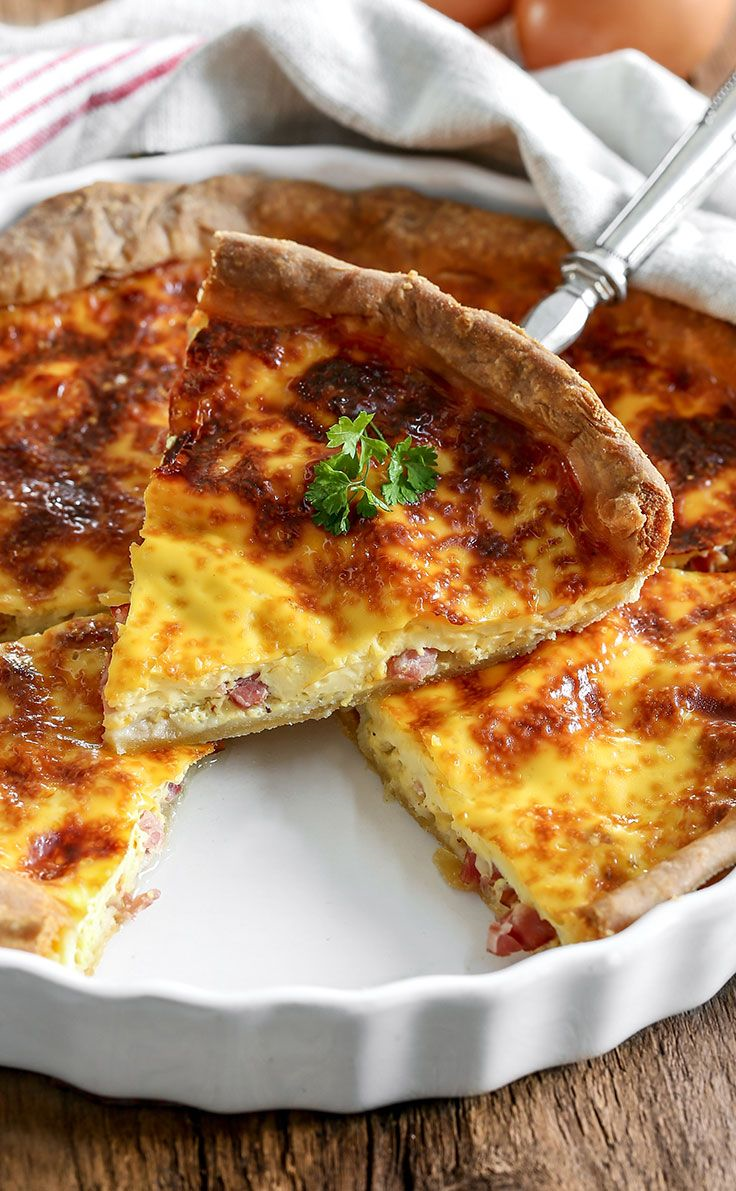
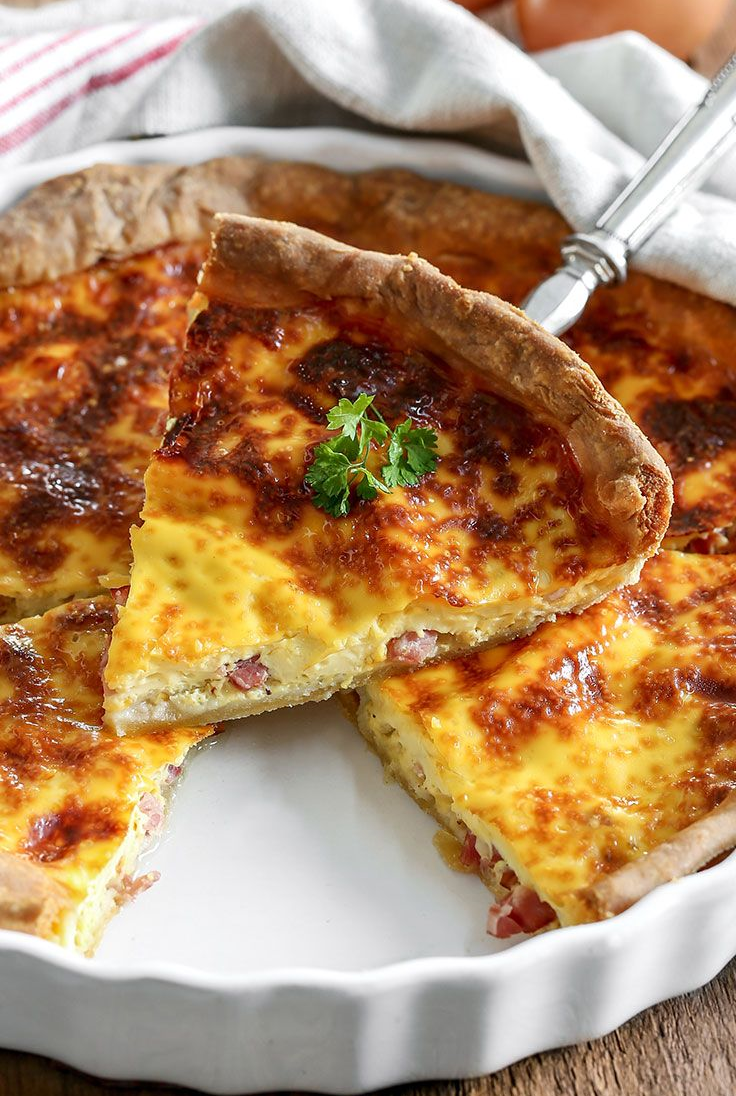
all pictures

diff --git a/src/app/components/recette/recette.component.scss b/src/app/components/recette/recette.component.scss
@@ -94,8 +94,6 @@ button:active {
   background-color: #39b498;
 }
 .recette-info-container img {
-  max-width: 100%;
-  height: auto;
   margin-bottom: 15px;
 }
 
